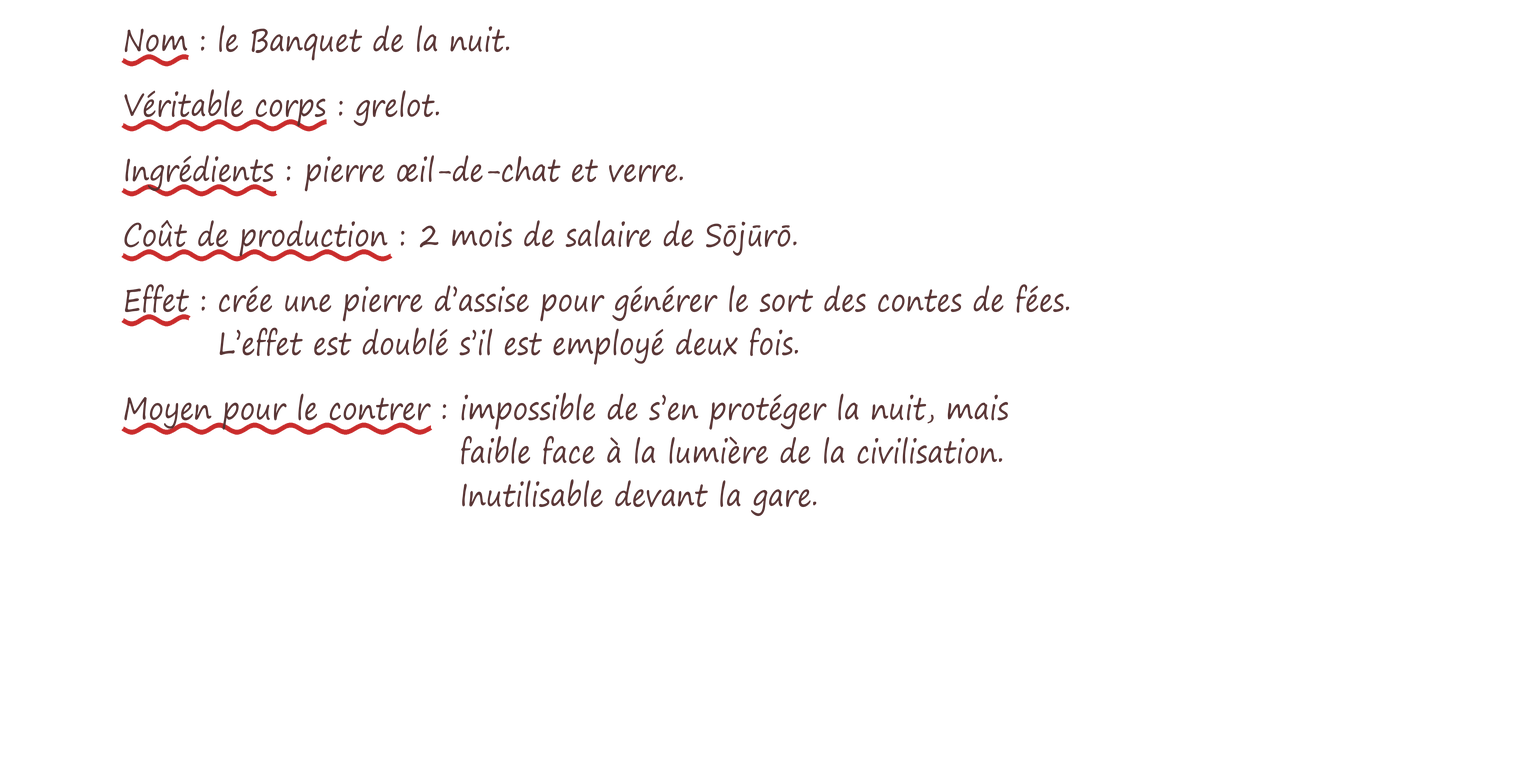
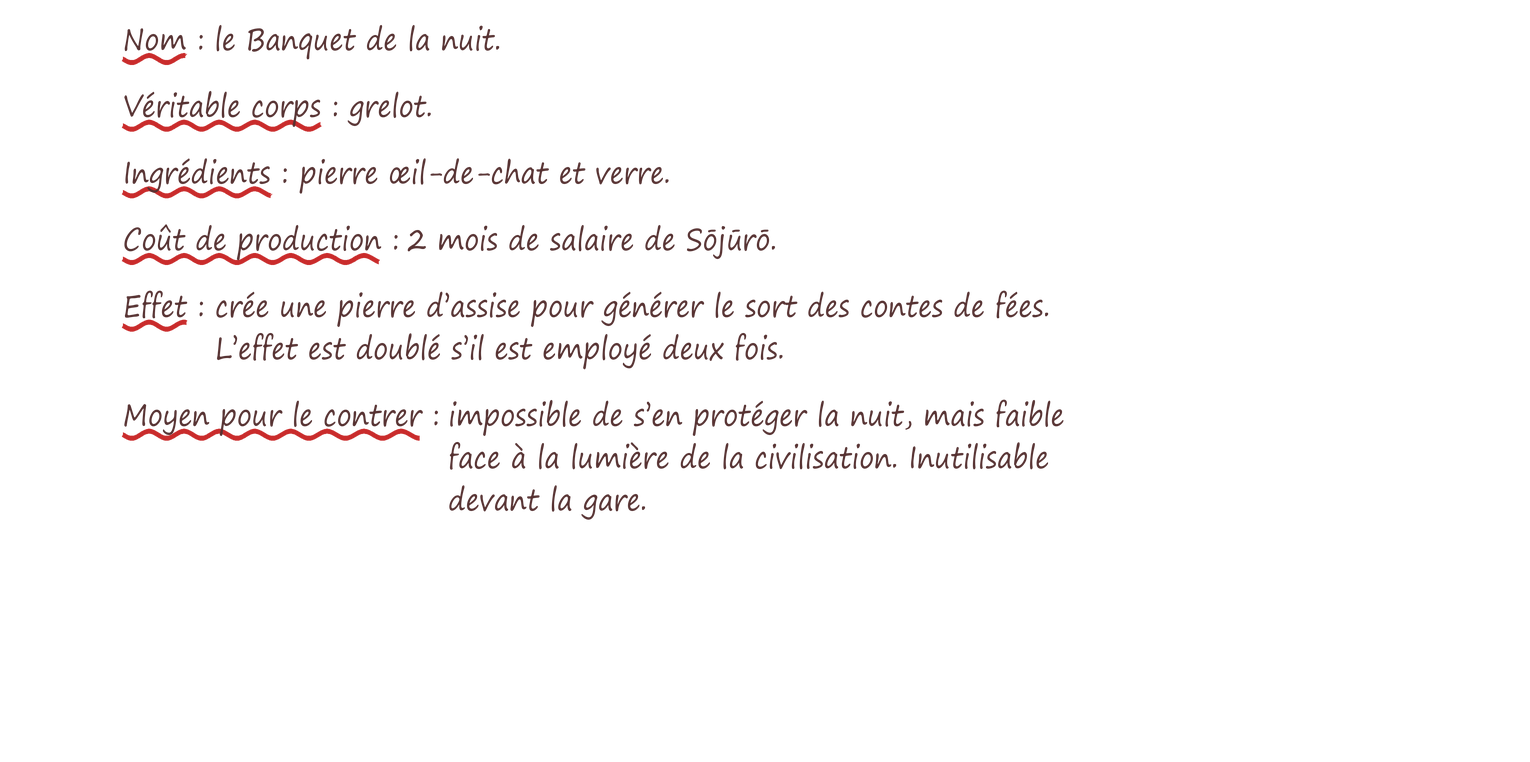
Réajuste la taille des textes d'images

diff --git a/utils/images/ploy.py b/utils/images/ploy.py
@@ -175,8 +175,11 @@ def sheet(image: GameImage, entries: list):
 	bottom = np.flatnonzero((image.target[..., 3] > 60).any(1))[-1]
 	width = (right - left) / SCALE_X
 	original = image.target.copy()
-	# the entries get closer before the letters get smaller
-	for scale, pitch in ((s, p) for s in np.arange(1.0, 0.5, -0.02) for p in np.arange(ENTRY_PITCH, MIN_ENTRY_PITCH, -0.1)):
+	# the letters get a little smaller first (longer lines, fewer breaks), then the entries
+	# get closer, before the letters get smaller still
+	slightly = [(s, ENTRY_PITCH) for s in np.arange(1.0, 0.9, -0.02)]
+	further = [(s, p) for s in np.arange(0.9, 0.5, -0.02) for p in np.arange(ENTRY_PITCH, MIN_ENTRY_PITCH, -0.1)]
+	for scale, pitch in slightly + further:
 		font, texts, underlines, _ = _layout(entries, size * scale, pitch, left / SCALE_X, width)
 		image.target = original
 		_draw_handwriting(image, texts, underlines, font, size * scale, top)
